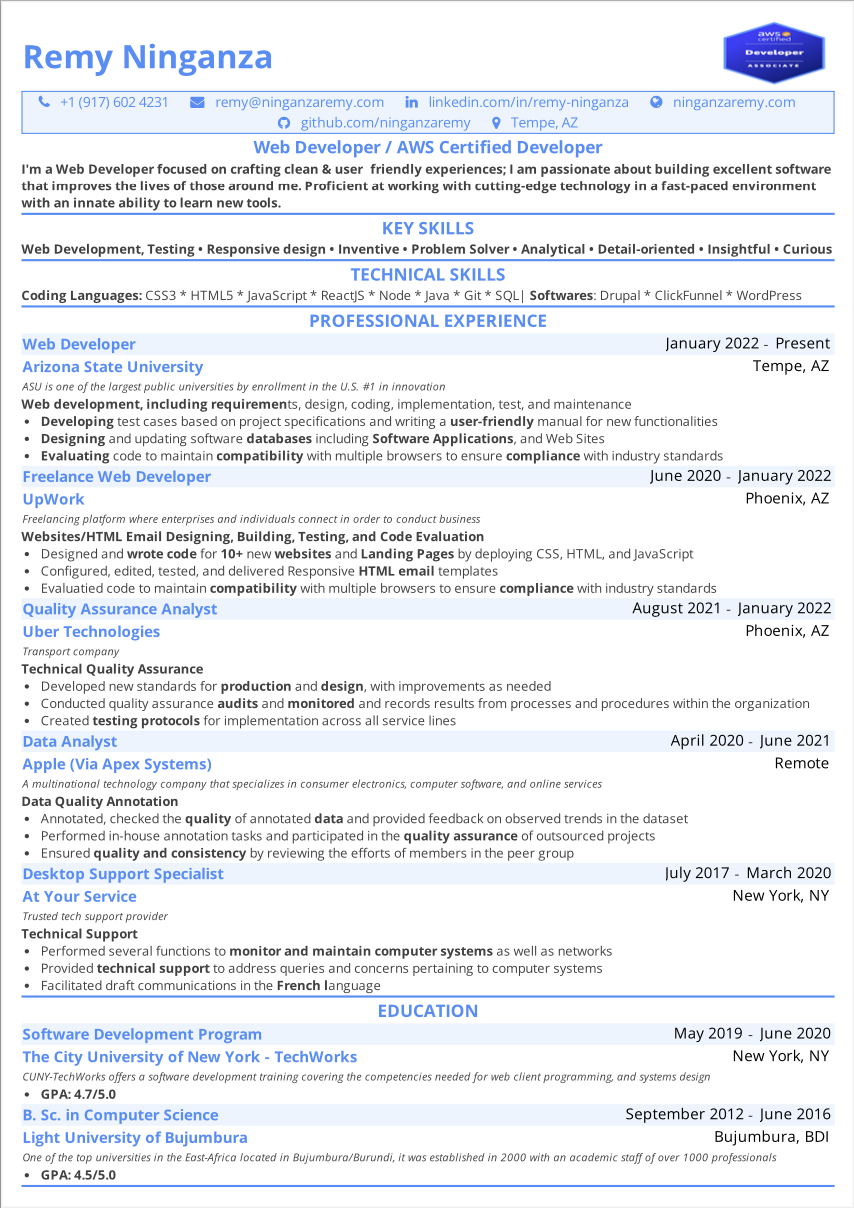
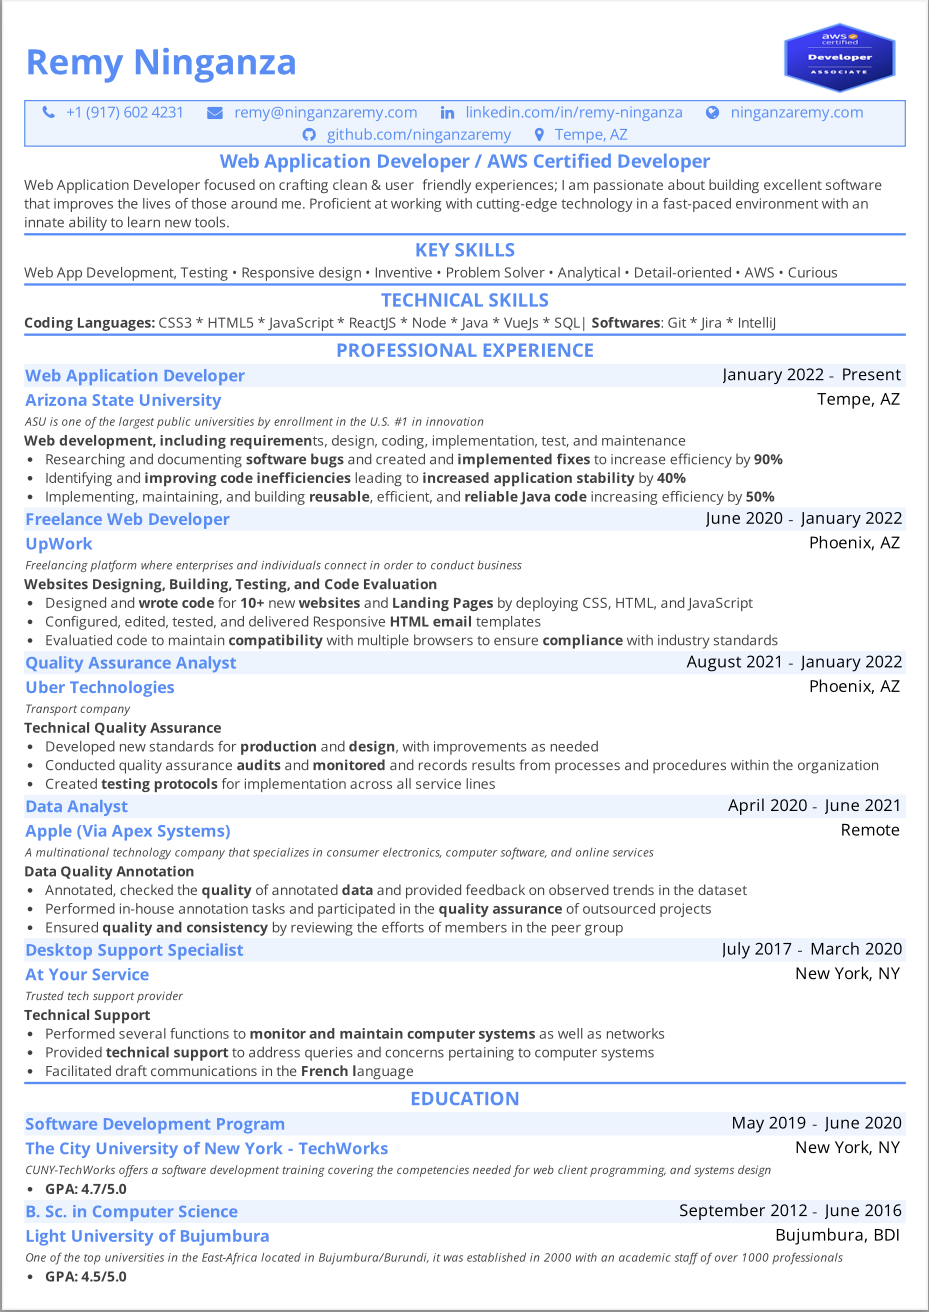
cv update

Changed region(s): [[0.0, 0.0, 1.0, 1.0], [0.3349, 0.8576, 0.3958, 0.8882]]

diff --git a/public/index.html b/public/index.html
@@ -5,7 +5,7 @@
 		<link rel="icon" href="%PUBLIC_URL%/favicon.ico" />
 		<meta name="viewport" content="width=device-width, initial-scale=1" />
 		<meta name="theme-color" content="#ffffff" />
-		<meta name="description" content="Remy is a Web Developer | AWS Certified Developer focused on crafting clean & user‑friendly experiences, I am passionate about building excellent software that improves the lives of those around me. Proficient at working with cutting-edge technology in a fast-paced environment with an innate ability to learn new tools." />
+		<meta name="description" content="Remy is a Web Application Developer | AWS Certified Developer focused on crafting clean & user‑friendly experiences, I am passionate about building excellent software that improves the lives of those around me. Proficient at working with cutting-edge technology in a fast-paced environment with an innate ability to learn new tools." />
 		<link rel="apple-touch-icon" href="%PUBLIC_URL%/logo192.png" />
 		<link rel="preconnect" href="https://fonts.gstatic.com" />
 		<link rel="preconnect" href="https://fonts.googleapis.com" />
@@ -14,7 +14,7 @@
 		<link href="https://fonts.googleapis.com/css?family=Poppins:400,400i,500,500i,600,600i,700,700i,800,800i,900,900i" rel="stylesheet" />
 		<link href="https://fonts.googleapis.com/css?family=Open+Sans:300,400,400i,600,600i,700" rel="stylesheet" />
 		<link rel="manifest" href="%PUBLIC_URL%/manifest.json" />
-		<title>Remy Ninganza | Web Developer | AWS Certified Developer</title>
+		<title>Remy Ninganza | Web Application Developer | AWS Certified Developer</title>
 	</head>
 	<body>
 		<noscript>You need to enable JavaScript to run this app.</noscript>

diff --git a/src/components/hero/Hero.jsx b/src/components/hero/Hero.jsx
@@ -7,7 +7,7 @@ const heroContent = {
 	heroMobileImage: "me-mobile",
 	heroTitleName: "Remy Ninganza",
 	heroDesignation: "Web Developer ",
-	heroDescriptions: `Web Developer | AWS Certified Developer focused on crafting clean & user‑friendly experiences, I am passionate about building excellent software that improves the live of those around me. Proficient at working with cutting-edge technology in a fast-paced environment with an innate ability to learn new tools.
+	heroDescriptions: `Web Application Developer | AWS Certified Developer focused on crafting clean & user‑friendly experiences, I am passionate about building excellent software that improves the live of those around me. Proficient at working with cutting-edge technology in a fast-paced environment with an innate ability to learn new tools.
 `,
 	heroBtn: "more about me",
 };

diff --git a/src/components/hero/HeroLight.jsx b/src/components/hero/HeroLight.jsx
@@ -7,7 +7,7 @@ const heroContent = {
 	heroMobileImage: "me-mobile",
 	heroTitleName: "Remy Ninganza",
 	heroDesignation: "Web Developer",
-	heroDescriptions: `Web Developer | AWS Certified Developer focused on crafting clean & user‑friendly experiences, I am passionate about building excellent software that improves the live of those around me. Proficient at working with cutting-edge technology in a fast-paced environment with an innate ability to learn new tools.
+	heroDescriptions: `Web Application Developer | AWS Certified Developer focused on crafting clean & user‑friendly experiences, I am passionate about building excellent software that improves the live of those around me. Proficient at working with cutting-edge technology in a fast-paced environment with an innate ability to learn new tools.
 `,
 	heroBtn: "more about me",
 };

diff --git a/src/components/about/Experience.jsx b/src/components/about/Experience.jsx
@@ -3,7 +3,7 @@ import React from "react";
 const experienceContent = [
 	{
 		year: "   01/2022 - Present",
-		position: " Web Developer",
+		position: " Web Application Developer ",
 		compnayName: "Arizona State University",
 		details: `Developing, testing and implementing  new software programs.
 Designing and updating software database. This includes, but is not limited to: Software Applications, Web Sites, Data Communication Processes and User Interfaces.
